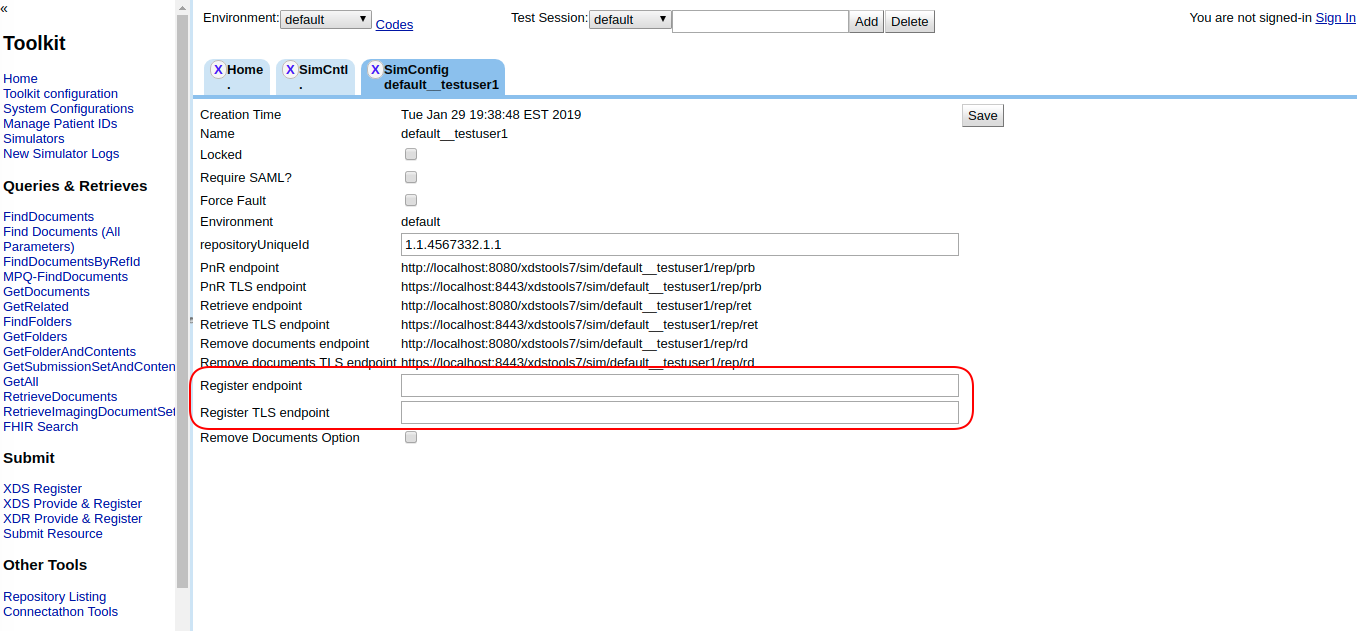
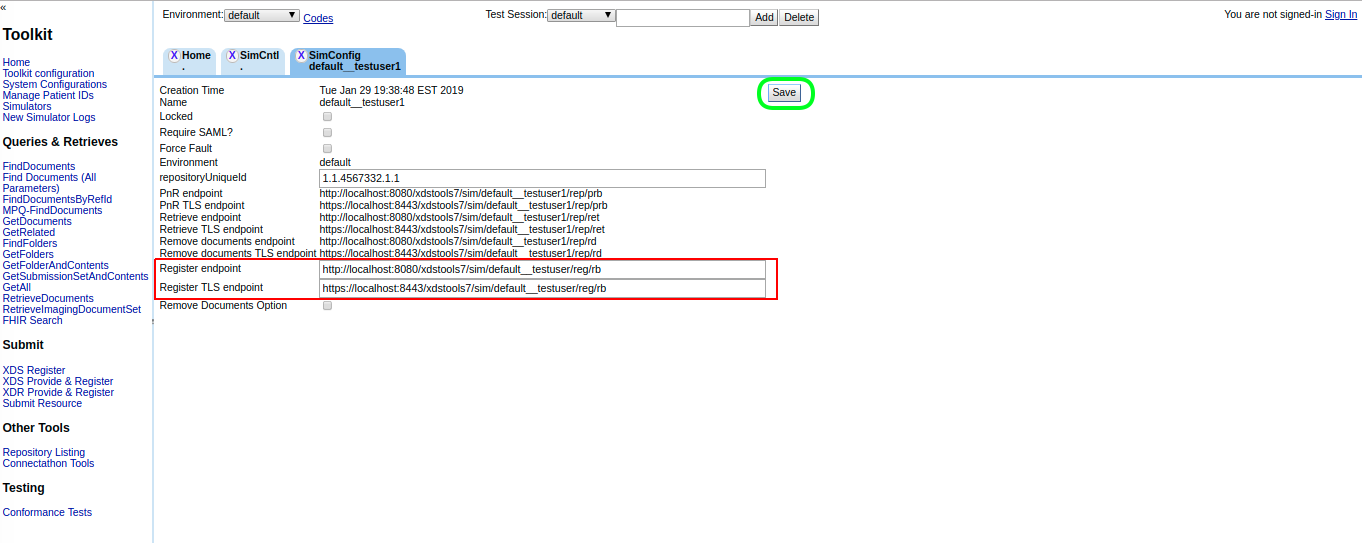
New images on XDS.b Preliminary tests

diff --git a/Technical Instructions/tech_inst-3.md b/Technical Instructions/tech_inst-3.md
@@ -33,7 +33,7 @@ Verify that the XDS.b Document Source can submit a single document via Provide a
 
 5. Repeat Step #3 for creating a "Document Repository" simulator. Give it a different shortname.
 
-6. Double click on the new Repository simulator and configure the Registry endpoint (Step #4)  
+6. Double click on the new Repository simulator, configure the Registry endpoint (that you have taken note on Step #4) and click on "Save".
 
 ![](./media/image3-06.png)
 
@@ -73,7 +73,7 @@ Verify that the XDS.b Document Source can submit a single document via Provide a
 
 **Test Procedure**
 
-Repeat all steps of test 12049. However, perform Steps 3 and 5 over TLS.
+Repeat all steps of test 12049. However, perform Step #9 over TLS.
 
 ## Tests 11936/12363
 FindDocuments Stored Query and generic instructions for testing Document Consumer implementations of Stored Queries.
@@ -86,13 +86,17 @@ FindDocuments Stored Query and generic instructions for testing Document Consume
 
 **Test Procedure**  
 
-a Use same patient ID used for Test 12049.  
+1. Use same patient ID used for Test 12049.  
 
-b. Use your SUT (document consumer) to submit a “FindDocument” Stored Query retrieving all documents for this patient ID.  
+2. Double click on the new Registry simulator (created in the Step 3# of test 12049) and take note of the Stored Query endpoint.
 
-c. Go to the “Simulators” menu option. Select your registry simulator, click on the “log” action (similar to step 6 of test 12049).  
+3. Use your System Under Test (actor: document consumer) to submit a “FindDocument” Stored Query retrieving all documents for the patient ID against the Store Query endpoint (Step #2).
 
-d. Select the “message” you have just generated. Take a screenshot of this screeen and click on the “Download message” option (similar to step 7 of test 12049).  
+![](./media/image3-12.png) 
 
-e. Post the generated zip file and screenshot to Gazelle Action “return log file”.  
+4. Go to the “Simulators” menu option. Select your registry simulator, click on the “log” action (similar to step 10 of test 12049).  
+
+5. Select the “message” you have just generated. Take a screenshot of this screeen and click on the “Download message” option (similar to step 11 of test 12049).  
+
+6. Post the generated zip file and screenshot to Gazelle Action “return log file”.  
 
